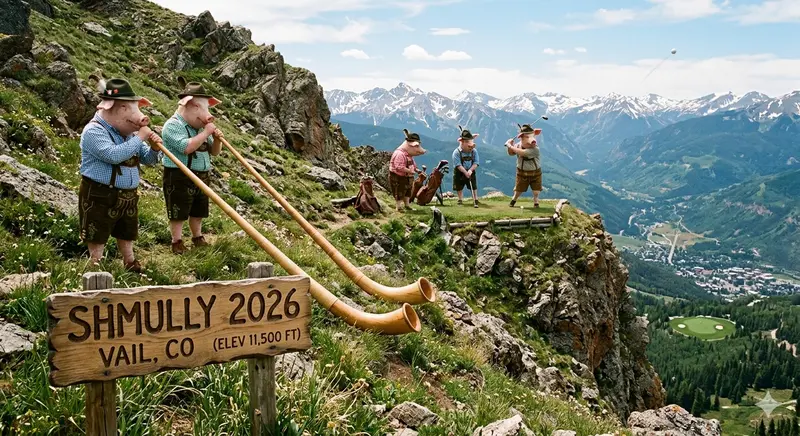
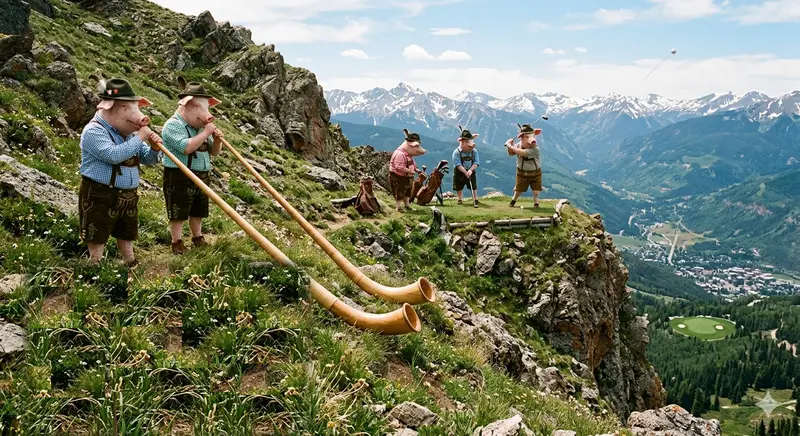
Content revisions: hero sign removal, money rework, teams under wraps
- Hero photo: removed the carved trail sign from the image (grass inpaint);
  the CSS signboard overlay is now the only sign
- Money: removed the 2023 lesson box; per-pig pricing assuming 11 in the
  house, 20 golfing, $500 groceries split by the house; added house-pig
  and off-site totals; Per Pig column first for phones
- Teams: groupings hidden behind a 'Teams will be revealed soon' sign;
  removed 2023 standings; player cards no longer show groups
- Removed TBD Pigs section
- Rules: Round 1 now lists groups A-E; putting rule is putt-everything-out
  both days; removed triple bogey rule (and its glossary entry)
- Scoreboard: Shmully Tally cleared of previous years
- Nav: The Pig Pen now before Pigsties

Claude-Session: https://claude.ai/code/session_01SJPHoPtUMUXEp9TjDtaQgt

Changed region(s): [[0.0312, 0.5963, 0.4062, 1.0]]

diff --git a/src/data/content.ts b/src/data/content.ts
@@ -78,21 +78,12 @@ export const players: Player[] = [
   { name: 'Zach Adamson', handicap: 20, group: 'E', house: false },
 ]
 
-// Unconfirmed (FALSE in the sheet) — label exactly "TBD Pigs" on the site.
-// They're penciled into groups, so they carry a group + handicap.
-export const tbdPigs = [
-  { name: 'Alex Chay', handicap: 20, group: 'B' },
-  { name: 'Wogan', handicap: 15, group: 'C' },
-]
-
 // ---------- TEAMS ----------
+// Groupings are under wraps until the reveal — player group fields stay in
+// the data above but are not rendered anywhere.
 
 export const teams = {
-  structureNote:
-    '5 groups of 4 (A–E), straight from the sheet. Averages include the TBD pigs penciled into their groups.',
-  groups: ['A', 'B', 'C', 'D', 'E'],
-  // Sheet-computed average handicaps (include unconfirmed pigs)
-  avgHandicaps: { A: 15.25, B: 15.25, C: 15.25, D: 15.3, E: 15.5 },
+  revealNote: 'Pairings are locked in a vault in the Alps.',
   pastTeamNames: ['Good Luck Cucks', 'Hog Fockers', 'Milk Bag Boys', 'Hog Fathers'],
 }
 
@@ -184,7 +175,7 @@ export const arrivals = [
 export const format = {
   name: '4v4v4v4 Tournament Format 1',
   rounds: [
-    { label: 'Round 1 — Vail GC', detail: 'Groups A/B/C/D each play Shamble, best 2 balls, stroke play.' },
+    { label: 'Round 1 — Vail GC', detail: 'Groups A/B/C/D/E each play Shamble, best 2 balls, stroke play.' },
     { label: 'Round 2 — Red Sky', detail: 'Combined pairings (AB, AC, BD, CD) play Adjusted Individual Stroke — drop the worst score each hole, add the best three.' },
   ],
   rejected: 'Match play was considered and rejected.',
@@ -214,11 +205,7 @@ export const rules = [
   },
   {
     name: 'Putting',
-    text: 'Match play: opposing teams can agree putts are "good" to halve the hole ("good good"). Stroke play: no gimmies. All putts must be finished in the cup. Even 2-footers.',
-  },
-  {
-    name: 'Triple Bogey (DAY 2 ONLY)',
-    text: "Players who get a triple bogey play from the lady's tees (in shame) on the next hole.",
+    text: 'No putt can be "good." No gimmies. All putts must be finished in the cup on both days. Even 2-footers.',
   },
 ]
 
@@ -303,33 +290,23 @@ export const house = {
 
 // ---------- MONEY ----------
 
+// Per-person math assumes: 11 pigs at the house, 20 pigs golfing,
+// $500 groceries split by the 11 at the house.
 export const money = {
+  assumptions: 'Assumes 11 at the house, 20 golfing, $500 of groceries split by the house.',
   lineItems: [
-    { item: 'Airbnb (4842 Meadow Lane)', amount: '$11,359.24 out the door', perPerson: '$459.06 at 11 · $504.97 at 10' },
-    { item: 'Vail Golf Club', amount: '$2,624 for 16 · $3,280 for 20', perPerson: '$164 pp' },
-    { item: 'Red Sky Golf Club', amount: '$5,700 for 20', perPerson: '$285 pp' },
-    { item: 'Transportation (shuttle)', amount: '$700 for 12', perPerson: '$58.33 pp' },
-    { item: 'Groceries', amount: 'TBD', perPerson: 'TBD' },
+    { item: 'Airbnb (4842 Meadow Lane)', amount: '$11,359.24 out the door', perPerson: '$1,032.66' },
+    { item: 'Vail Golf Club', amount: '$3,280 for 20', perPerson: '$164.00' },
+    { item: 'Red Sky Golf Club', amount: '$5,700 for 20', perPerson: '$285.00' },
+    { item: 'Transportation (shuttle)', amount: '$700 for 12', perPerson: '$58.33' },
+    { item: 'Groceries (est.)', amount: '$500', perPerson: '$45.45' },
   ],
-  context2023:
-    '2023 ran ~$738 pp — plus a ~$600 Costco run and a ~$600 DoorDash night that got split informally. The per-person ledger below exists so that chaos never happens again.',
+  totals: [
+    { label: 'House pig, golfing both rounds', amount: '$1,585.44' },
+    { label: 'Off-site pig, golfing both rounds', amount: '$507.33' },
+  ],
   // Payments not yet logged in the sheet — flip paid:true as money lands.
   payments: players.map((p) => ({ name: p.nickname || p.name, paid: false })),
-}
-
-// ---------- HALL OF FAME ----------
-
-export const hallOfFame = {
-  finals2023: [
-    { team: 'Milk Bag Boys', score: 401, champion: true },
-    { team: 'Hog Fockers', score: 404 },
-    { team: 'Good Luck Cucks', score: 408 },
-    { team: 'Hog Fathers', score: 435 },
-  ],
-  tallyChamps2023: [
-    { name: 'Carlos', count: 10 },
-    { name: 'Derek', count: 10 },
-  ],
 }
 
 // ---------- GLOSSARY (New Pig Orientation) ----------
@@ -346,10 +323,6 @@ export const glossary = [
   {
     term: 'Shmully Tally',
     def: 'The official running count of shmullies per player, kept all weekend. Decides the "Most Shmullies" award. The 2023 record is 10 (Carlos and Derek, co-champions, legends).',
-  },
-  {
-    term: 'Triple Bogey Shame Rule',
-    def: 'Day 2 only: card a triple and you play the next hole from the forward tees, in shame. Everyone will watch.',
   },
   {
     term: 'Shamble',
@@ -388,8 +361,6 @@ export const scoreboardFallback = {
     { team: 'Team D', holes: emptyHoles() },
     { team: 'Team E', holes: emptyHoles() },
   ],
-  tally: [
-    { name: 'Derek', count: 32 },
-    { name: 'Carlos', count: 0 },
-  ],
+  // Cleared for 2026 — previous years' counts don't carry over.
+  tally: [],
 }

diff --git a/src/pages/Teams.jsx b/src/pages/Teams.jsx
@@ -1,38 +1,19 @@
 import SignHeader from '../components/SignHeader.jsx'
-import { teams, players, tbdPigs, hallOfFame } from '../data/content.ts'
+import { teams } from '../data/content.ts'
 
 export default function Teams() {
   return (
     <div className="page">
-      <SignHeader title="Teams" elev="5 GROUPS · A THROUGH E" />
+      <SignHeader title="Teams" elev="CLASSIFIED" />
 
-      <p className="notice center" style={{ marginBottom: '1rem' }}>{teams.structureNote}</p>
-
-      <div className="grid-2">
-        {teams.groups.map((g) => {
-          const members = players.filter((p) => p.group === g)
-          const pending = tbdPigs.filter((p) => p.group === g)
-          return (
-            <div className="card" key={g} style={{ marginTop: 0 }}>
-              <h3>
-                Group {g}{' '}
-                {teams.avgHandicaps[g] != null && <span className="badge tan">AVG {teams.avgHandicaps[g]}</span>}
-              </h3>
-              <div>
-                {members.map((p) => (
-                  <span className="sleeper" key={p.name}>
-                    {p.nickname || p.name} · {p.handicap}
-                  </span>
-                ))}
-                {pending.map((p) => (
-                  <span className="sleeper" key={p.name} style={{ borderStyle: 'dashed', opacity: 0.7 }}>
-                    {p.name} · {p.handicap} (TBD)
-                  </span>
-                ))}
-              </div>
-            </div>
-          )
-        })}
+      <div className="champs-banner wood-panel screws" style={{ marginTop: '1.2rem' }}>
+        <div className="champs-title carved">🐷 Teams Will Be Revealed Soon 🐷</div>
+        <p style={{ marginTop: '0.6rem', fontFamily: 'var(--font-mono)', fontSize: '0.68rem', letterSpacing: '0.16em', textTransform: 'uppercase', color: 'var(--tan)' }}>
+          {teams.revealNote}
+        </p>
+        <p style={{ marginTop: '0.5rem', fontFamily: 'var(--font-mono)', fontSize: '0.62rem', letterSpacing: '0.14em', textTransform: 'uppercase', color: 'var(--tan)', opacity: 0.75 }}>
+          Announced at the Opening Ceremony · Thursday 7/30
+        </p>
       </div>
 
       <SignHeader title="Team Name Hall of Fame" elev="CHOOSE WISELY" />
@@ -48,28 +29,6 @@ export default function Teams() {
         <p className="muted" style={{ marginTop: '0.6rem', fontSize: '0.82rem' }}>
           The bar has been set. Do not show up with something boring.
         </p>
-      </div>
-
-      <div className="card">
-        <h3>🏆 2023 Final Standings</h3>
-        <div className="table-scroll">
-          <table className="scorecard">
-            <thead>
-              <tr>
-                <th style={{ textAlign: 'left' }}>Team</th>
-                <th>Final</th>
-              </tr>
-            </thead>
-            <tbody>
-              {hallOfFame.finals2023.map((t) => (
-                <tr key={t.team}>
-                  <td className="rowlabel">{t.champion ? '👑 ' : ''}{t.team}</td>
-                  <td>{t.score}</td>
-                </tr>
-              ))}
-            </tbody>
-          </table>
-        </div>
       </div>
     </div>
   )

diff --git a/src/pages/Players.jsx b/src/pages/Players.jsx
@@ -1,11 +1,5 @@
 import SignHeader from '../components/SignHeader.jsx'
-import TbdSlot from '../components/TbdSlot.jsx'
-import { players, tbdPigs } from '../data/content.ts'
-
-function Handicap({ p }) {
-  if (p.handicap != null) return <span className="badge green">HCP {p.handicap}</span>
-  return <span className="badge outline">HCP TBD</span>
-}
+import { players } from '../data/content.ts'
 
 export default function Players() {
   return (
@@ -23,8 +17,11 @@ export default function Players() {
               <span style={{ fontSize: '1.1rem' }}>🐷</span>
             </div>
             <div style={{ display: 'flex', flexWrap: 'wrap', gap: '0.3rem', marginTop: '0.5rem' }}>
-              <Handicap p={p} />
-              <span className="badge tan">{p.group ? `GROUP ${p.group}` : 'GROUP TBD'}</span>
+              {p.handicap != null ? (
+                <span className="badge green">HCP {p.handicap}</span>
+              ) : (
+                <span className="badge outline">HCP TBD</span>
+              )}
               {p.house ? <span className="badge sky">HOUSE</span> : <span className="badge outline">OFF-SITE</span>}
             </div>
             {p.stat && <p className="muted" style={{ marginTop: '0.45rem', fontSize: '0.8rem', fontStyle: 'italic' }}>{p.stat}</p>}
@@ -32,18 +29,9 @@ export default function Players() {
         ))}
       </div>
 
-      <SignHeader title="TBD Pigs" elev="UNCONFIRMED · PENDING SQUEAL" />
-
-      <div className="grid-2 collapse">
-        {tbdPigs.map((p) => (
-          <TbdSlot key={p.name} label="TBD PIG">
-            <p style={{ fontWeight: 800 }}>{p.name}</p>
-            <p className="muted" style={{ fontSize: '0.78rem' }}>
-              Penciled into Group {p.group} · HCP {p.handicap} · awaiting confirmation
-            </p>
-          </TbdSlot>
-        ))}
-      </div>
+      <p className="muted center" style={{ marginTop: '1.2rem', fontSize: '0.82rem' }}>
+        Team groupings are classified until the Opening Ceremony. Nice try.
+      </p>
     </div>
   )
 }

diff --git a/src/pages/Money.jsx b/src/pages/Money.jsx
@@ -14,27 +14,29 @@ export default function Money() {
             <thead>
               <tr>
                 <th style={{ textAlign: 'left' }}>Item</th>
-                <th>Total</th>
                 <th>Per Pig</th>
+                <th>Total</th>
               </tr>
             </thead>
             <tbody>
               {money.lineItems.map((li) => (
                 <tr key={li.item}>
                   <td className="rowlabel">{li.item}</td>
+                  <td style={{ whiteSpace: 'normal', minWidth: '6rem' }}>{li.perPerson}</td>
                   <td style={{ whiteSpace: 'normal', minWidth: '9rem' }}>{li.amount || '—'}</td>
-                  <td style={{ whiteSpace: 'normal', minWidth: '7rem' }}>{li.perPerson}</td>
+                </tr>
+              ))}
+              {money.totals.map((t) => (
+                <tr className="total-row" key={t.label}>
+                  <td className="rowlabel">{t.label}</td>
+                  <td>{t.amount}</td>
+                  <td />
                 </tr>
               ))}
             </tbody>
           </table>
         </div>
-      </div>
-
-      <div className="card gingham">
-        <div className="gingham-strip" />
-        <h3>📜 A Lesson From 2023</h3>
-        <p style={{ fontSize: '0.9rem' }}>{money.context2023}</p>
+        <p className="muted" style={{ marginTop: '0.6rem', fontSize: '0.8rem' }}>{money.assumptions}</p>
       </div>
 
       <SignHeader title="Amount Paid" elev="THE LEDGER" />

diff --git a/src/components/Nav.jsx b/src/components/Nav.jsx
@@ -4,8 +4,8 @@ const links = [
   ['/', 'Home'],
   ['/scoreboard', 'Scoreboard'],
   ['/agenda', 'Agenda'],
-  ['/beds', 'Pigsties'],
   ['/house', 'The Pig Pen'],
+  ['/beds', 'Pigsties'],
   ['/players', 'Players'],
   ['/teams', 'Teams'],
   ['/rules', 'Rules'],